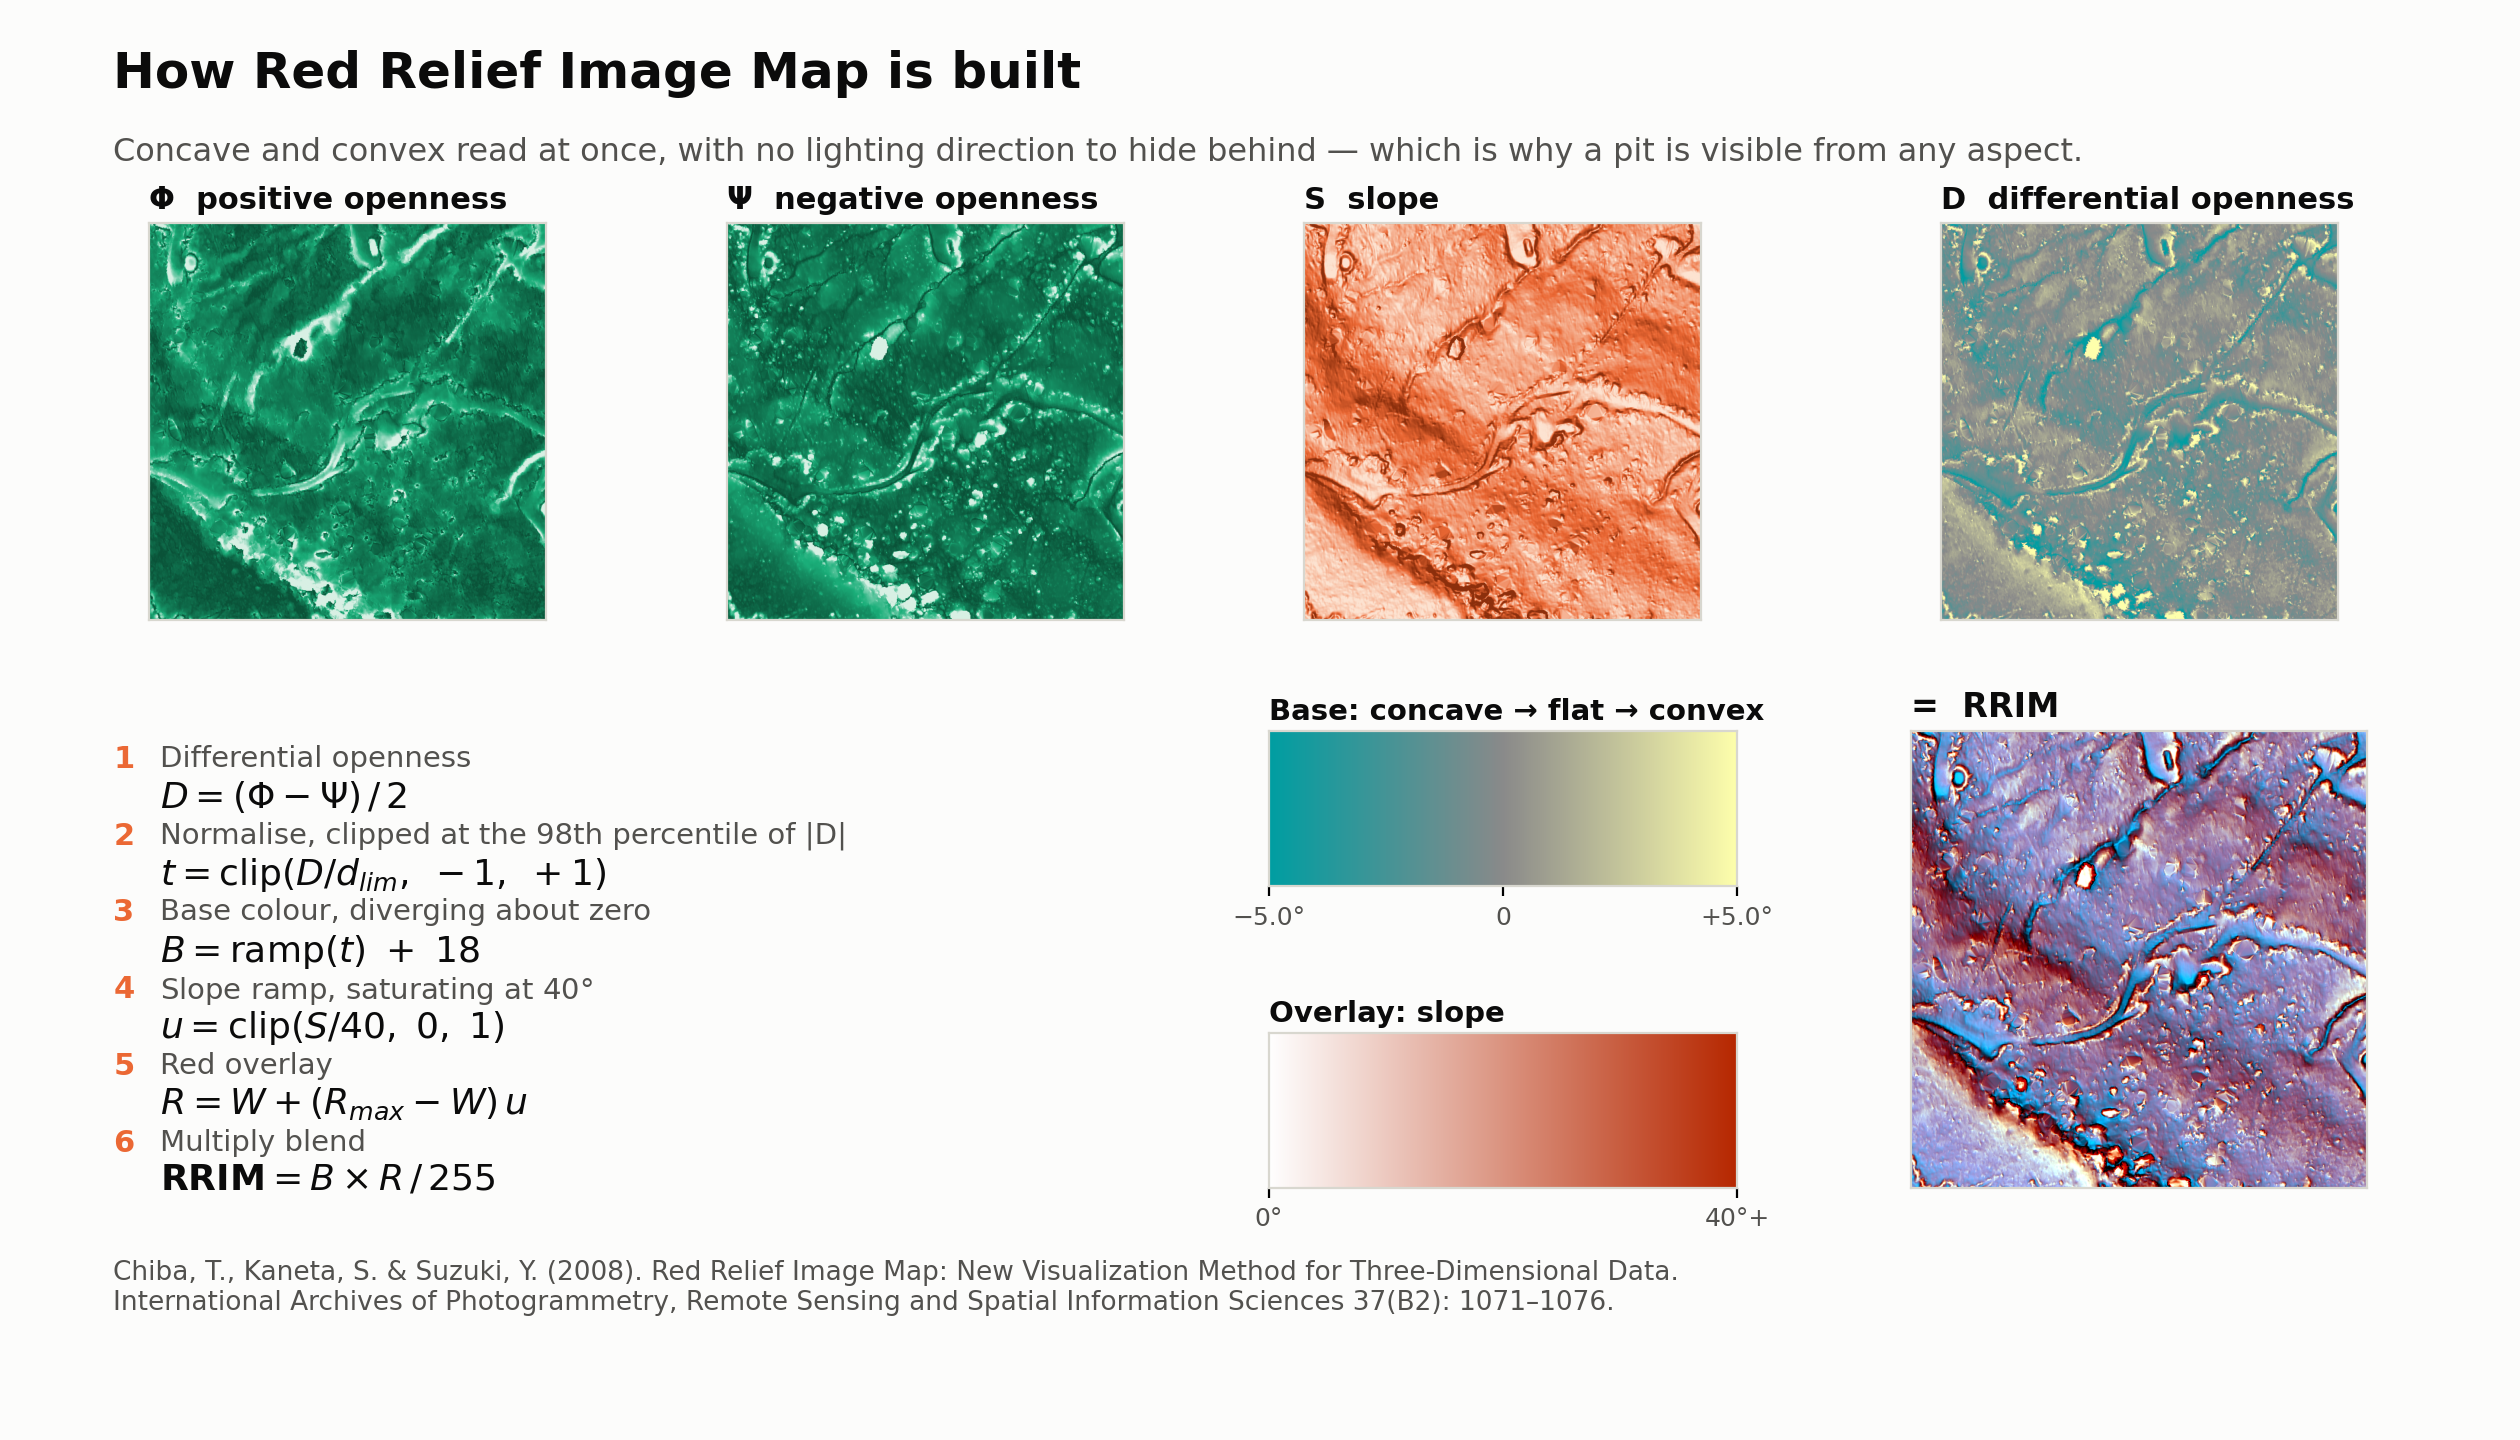
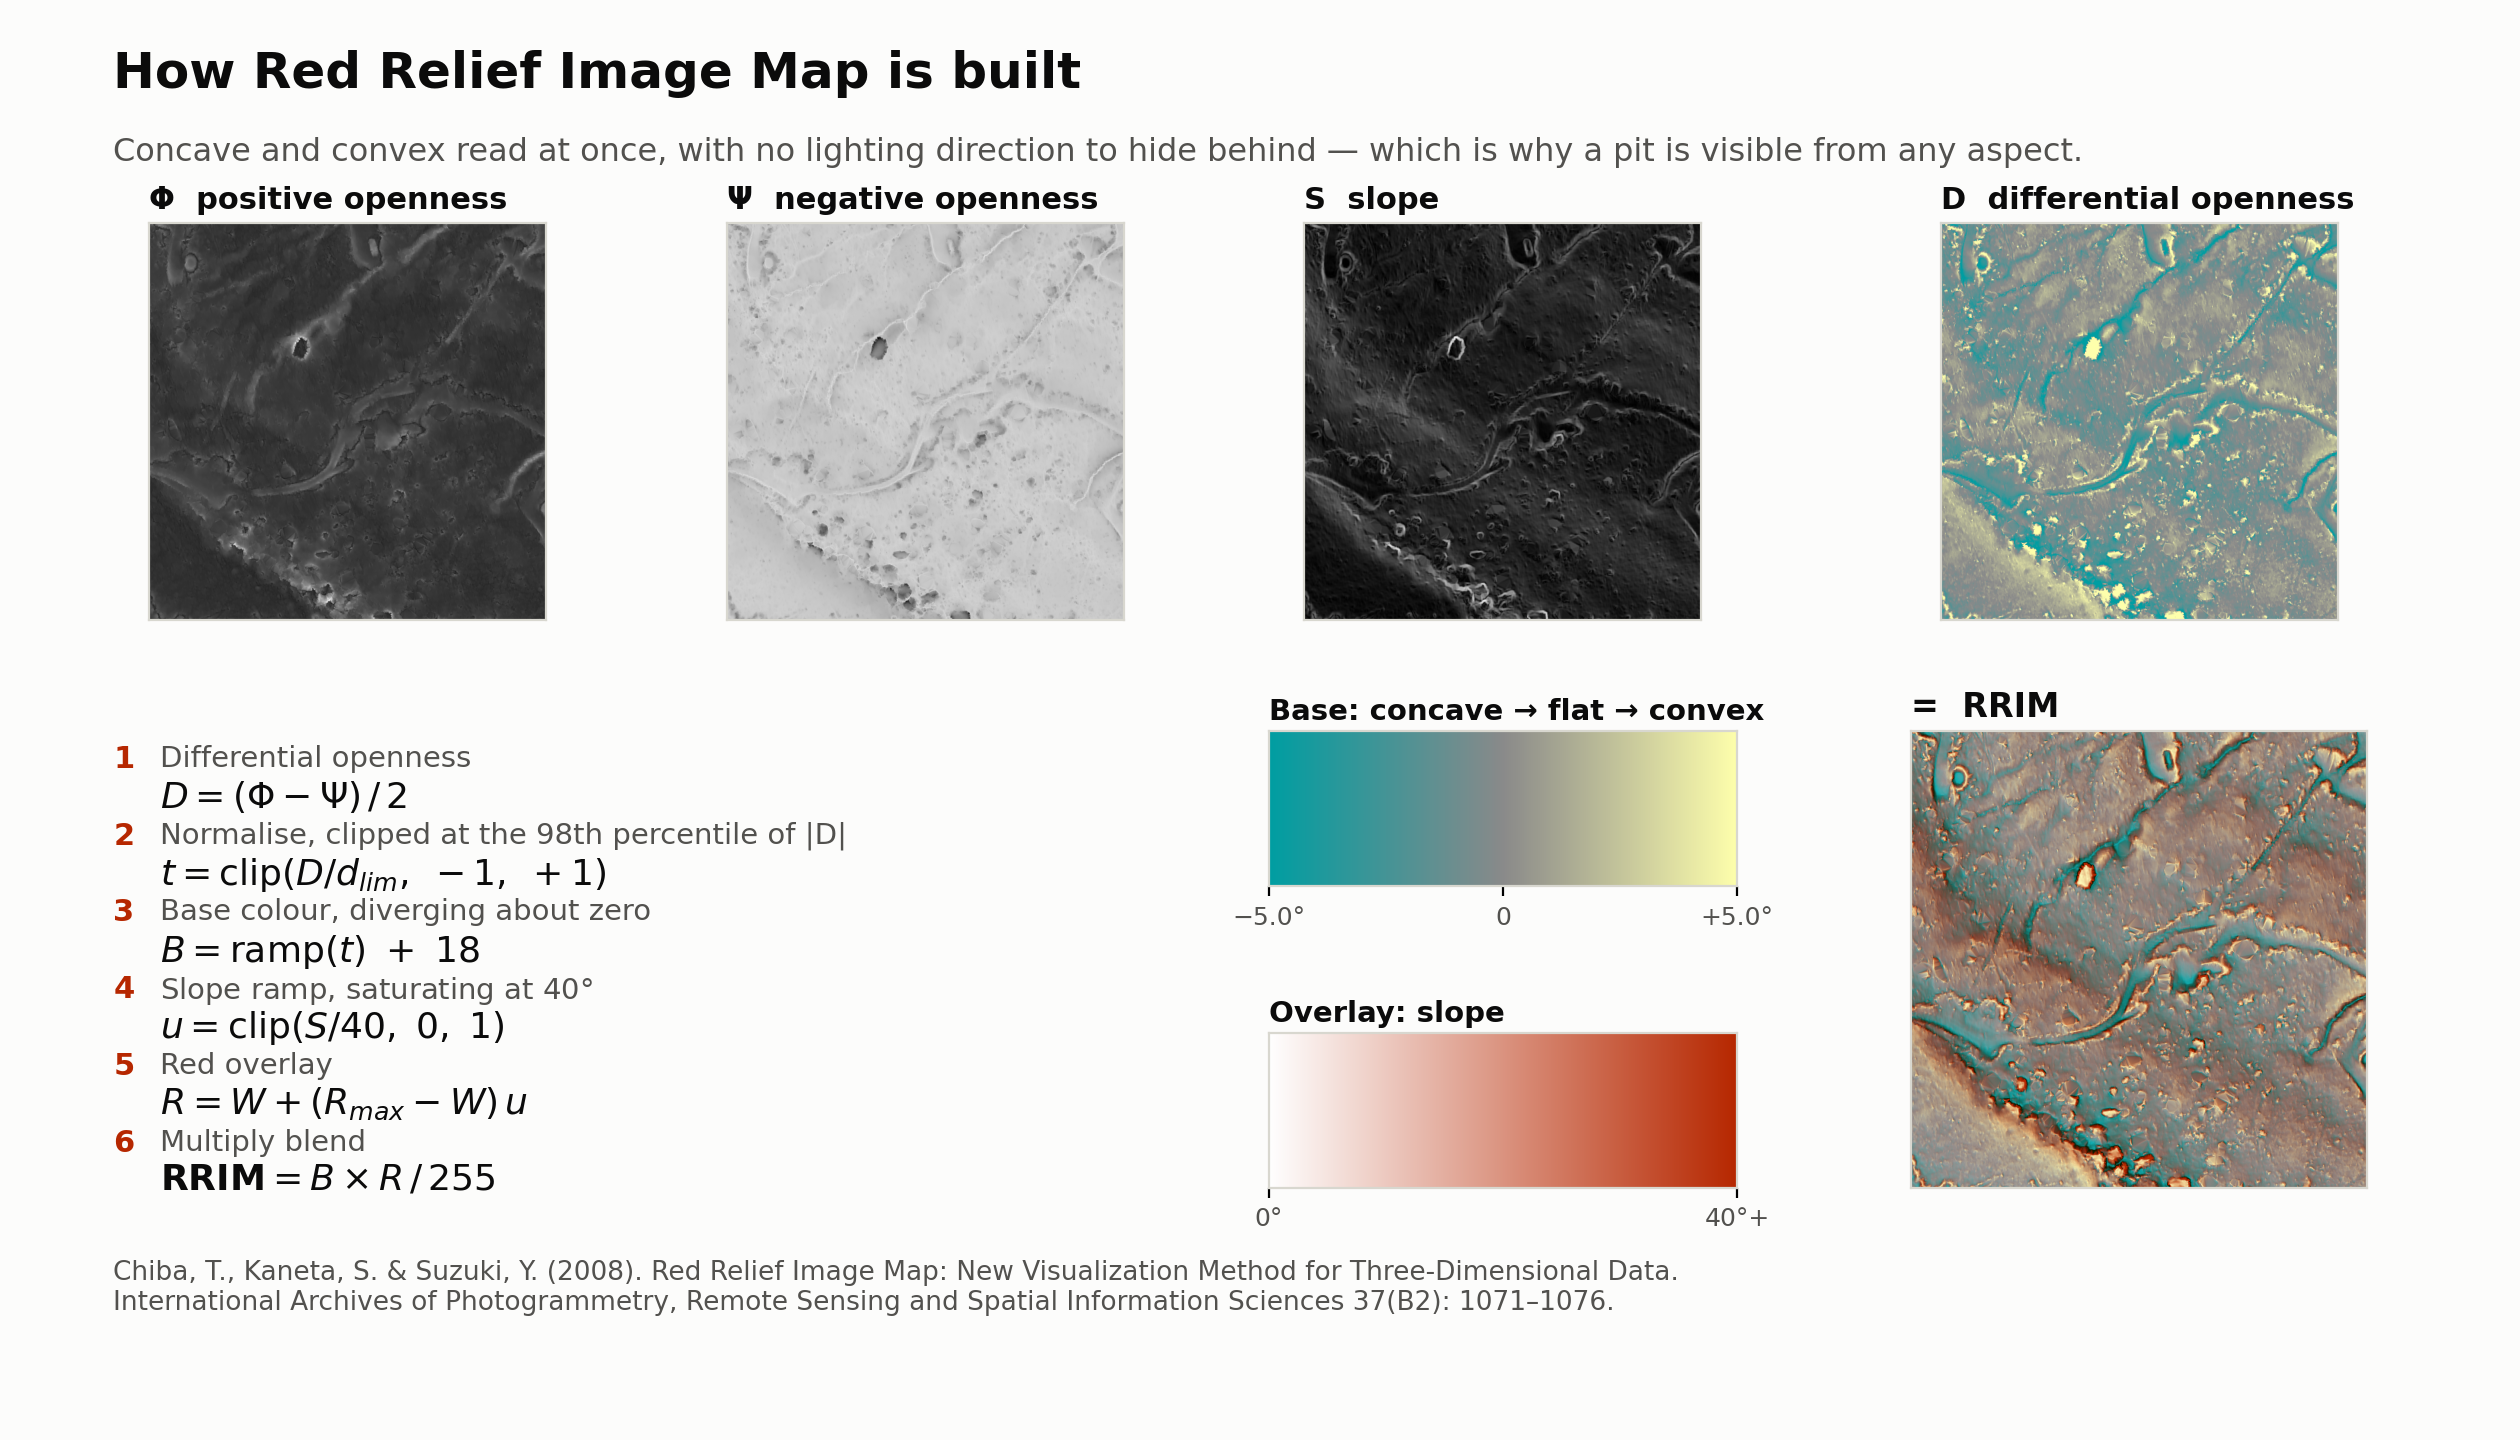
figures: rebuild the RRIM card on the QGIS styling, not invented ramps
The card was the last figure drawing its inputs on colours chosen here:
openness on a green ramp, slope on an orange-red one. That is not what those
layers look like when opened, and a green ramp beside a red ramp carrying a
different meaning is the pair the colourblind rule forbids.

All three inputs are greyscale now, read from qgis/wellsight.qgz through
qgis_styles imported from the panel builder, so the card and the panels cannot
drift apart. The project styles openness_pos WhiteToBlack and the other two
BlackToWhite; the card honours that inversion instead of flattening it.

The RRIM thumbnail was applying its own 2-98 stretch over a layer the project
renders with NoEnhancement. Raw bytes now, so it matches the annotation series
base exactly.

The two ramp swatches keep the real RRIM constants because they ARE the
algorithm. Reasoning for that, and the validator numbers behind it, is in the
module docstring.

Claude-Session: https://claude.ai/code/session_012wuDYDPJQj4QxbtZFmrfaB

diff --git a/docs/presentation/figures_30to45min/_build_rrim_formula_card.py b/docs/presentation/figures_30to45min/_build_rrim_formula_card.py
@@ -5,6 +5,31 @@ not out of the paper, so the card describes what this project actually computes.
 The thumbnails come from the same 300 m Venango window as the annotation series,
 so the card and the maps agree.
 
+THE INPUT THUMBNAILS ARE DRAWN THE WAY QGIS DRAWS THEM
+------------------------------------------------------
+Openness and slope used to be shown here on invented green and orange ramps.
+Two problems with that. They are not what those layers look like when opened,
+which is the same defect `_build_derivative_panel.py` was fixed for; and a
+green ramp beside an orange-red ramp, each carrying a different meaning, is
+precisely the pair the colourblind rule in CLAUDE.md forbids. All three inputs
+are now greyscale, read from `qgis/wellsight.qgz` through that module's
+`qgis_styles`, so this card and the derivative panels agree with the screen and
+with each other.
+
+The RRIM panel is likewise raw bytes now. `rrim_openness_9t_05` is
+multibandcolor with NoEnhancement in the project, and this card was applying a
+2-98 percentile stretch of its own on top.
+
+COLOUR THAT STAYS, AND WHY
+--------------------------
+The two ramp swatches keep the real RRIM constants, because they ARE the
+algorithm -- teal/grey/yellow diverging about zero, white to red for slope.
+The dataviz validator scores teal against grey at dE 4.2 deutan, but it is
+scoring them as a categorical palette and they are not one: they are adjacent
+stops of a diverging ramp, where being close together at the midpoint is the
+ramp working. Neither ramp is read by colour alone -- both carry numeric ticks.
+There is no green anywhere on the card, so there is no red/green pair.
+
 Reference (already in literature/CITATIONS.md, PDFs in literature/papers/):
     Chiba, T., Kaneta, S., Suzuki, Y. (2008). "Red Relief Image Map: New
     Visualization Method for Three-Dimensional Data." Int. Archives of
@@ -17,6 +42,7 @@ Run:
 """
 from __future__ import annotations
 
+import sys
 from pathlib import Path
 
 import matplotlib
@@ -26,6 +52,9 @@ import numpy as np
 import rasterio
 from matplotlib.colors import LinearSegmentedColormap
 from rasterio.windows import from_bounds
+
+sys.path.insert(0, str(Path(__file__).resolve().parent))
+from _build_derivative_panel import qgis_styles, style_for   # noqa: E402
 
 ROOT = Path(r"C:\Users\colto\Documents\GitHub\lidar_project")
 D05 = ROOT / "data" / "9t" / "derived" / "05"
@@ -40,6 +69,9 @@ INK = "#0b0b0b"
 INK2 = "#52514e"
 MUTED = "#8a887e"
 RULE = "#d8d7cf"
+#: The step numbers take the card's own subject colour, RRIM's slope red,
+#: rather than the orange of the invented ramp that used to sit above them.
+ACCENT = "#b62700"
 
 # The exact constants from _make_rrim.py -- if that file changes, change these.
 TEAL = np.array([0, 158, 162], float)
@@ -70,13 +102,18 @@ def read(name, bb):
     return a[0] if a.ndim == 3 else a
 
 
-def thumb(ax, arr, title, cmap, sym=False):
-    v = arr[np.isfinite(arr)]
-    if sym:
-        m = np.percentile(np.abs(v), 98)
-        vmin, vmax = -m, m
+def thumb(ax, arr, title, cmap=None, sym=False, st=None):
+    """One input, either QGIS-styled greyscale (st) or an explicit ramp."""
+    if st is not None:
+        cmap = "gray" if st["gradient"] == "BlackToWhite" else "gray_r"
+        vmin, vmax = st["vmin"], st["vmax"]
     else:
-        vmin, vmax = np.percentile(v, 2), np.percentile(v, 98)
+        v = arr[np.isfinite(arr)]
+        if sym:
+            m = np.percentile(np.abs(v), 98)
+            vmin, vmax = -m, m
+        else:
+            vmin, vmax = np.percentile(v, 2), np.percentile(v, 98)
     ax.imshow(arr, cmap=cmap, vmin=vmin, vmax=vmax)
     ax.set_xticks([]); ax.set_yticks([])
     for sp in ax.spines.values():
@@ -110,10 +147,8 @@ def main() -> int:
     with rasterio.open(D05 / "rrim_openness_9t_05.tif") as r:
         w = from_bounds(*bb, transform=r.transform)
         rr = r.read(window=w, boundless=True, fill_value=np.nan).astype("float32")[:3]
-    rr = np.stack([(b - np.nanpercentile(b, 2))
-                   / max(np.nanpercentile(b, 98) - np.nanpercentile(b, 2), 1e-9)
-                   for b in rr])
-    rrim = np.clip(np.moveaxis(rr, 0, -1), 0, 1)
+    # NoEnhancement in the QGIS project: the stored bytes go straight to screen.
+    rrim = np.clip(np.moveaxis(rr / 255.0, 0, -1), 0, 1)
 
     plt.rcParams.update({
         "figure.facecolor": SURFACE, "axes.facecolor": SURFACE,
@@ -126,14 +161,23 @@ def main() -> int:
                           hspace=0.26, wspace=0.22,
                           left=0.045, right=0.965, top=0.845, bottom=0.175)
 
-    CM_G = LinearSegmentedColormap.from_list("g", ["#d8f0e4", "#1baf7a", "#0a5238"])
-    CM_O = LinearSegmentedColormap.from_list("o", ["#fde3d1", "#eb6834", "#8c2f0c"])
     CM_D = LinearSegmentedColormap.from_list(
         "d", [TEAL / 255, GRAY / 255, YELLOW / 255])
 
-    thumb(fig.add_subplot(gs[0, 0]), op, "\u03a6  positive openness", CM_G)
-    thumb(fig.add_subplot(gs[0, 1]), on, "\u03a8  negative openness", CM_G)
-    thumb(fig.add_subplot(gs[0, 2]), slope, "S  slope", CM_O)
+    # The three real rasters are drawn the way the QGIS project draws them.
+    # D is an intermediate that exists only inside _make_rrim.py, so it has no
+    # project style; it wears the base ramp it feeds, which is the point of it.
+    styles = qgis_styles()
+    for ax_, arr, stem, title in (
+            (fig.add_subplot(gs[0, 0]), op, "openness_pos_9t_05",
+             "\u03a6  positive openness"),
+            (fig.add_subplot(gs[0, 1]), on, "openness_neg_9t_05",
+             "\u03a8  negative openness"),
+            (fig.add_subplot(gs[0, 2]), slope, "slope_9t_05", "S  slope")):
+        st = style_for(stem, styles, D05 / f"{stem}.tif")
+        print(f"  {stem:22s} gray {st['gradient']} "
+              f"{st['vmin']:.4g} to {st['vmax']:.4g}  ({st['source']})")
+        thumb(ax_, arr, title, st=st)
     thumb(fig.add_subplot(gs[0, 3]), do, "D  differential openness", CM_D, sym=True)
 
     # --- the maths, as it is actually coded -----------------------------------
@@ -152,7 +196,7 @@ def main() -> int:
     ]
     y = 0.97
     for num, words, formula in lines:
-        ax.text(0.0, y, num, fontsize=11, fontweight="bold", color="#eb6834",
+        ax.text(0.0, y, num, fontsize=11, fontweight="bold", color=ACCENT,
                 va="top")
         ax.text(0.045, y, words, fontsize=10.5, color=INK2, va="top")
         ax.text(0.045, y - 0.075, formula, fontsize=13, color=INK, va="top")

diff --git a/docs/analysis_log.md b/docs/analysis_log.md
@@ -5,6 +5,35 @@ result. Newest entries at the top. Per `Claude.md` reporting rule.
 
 ---
 
+## 2026-09-19 — RRIM formula card rebuilt on the QGIS styling
+
+The card explaining how RRIM is built was the last figure still drawing its
+inputs on invented ramps: positive and negative openness on a green ramp, slope
+on an orange-red one. Two defects in one. It is not what those layers look like
+when opened, which is what `_build_derivative_panel.py` was fixed for the same
+day; and a green ramp beside a red ramp, each meaning something different, is
+the exact pair the colourblind rule forbids.
+
+All three inputs are now greyscale, read from `qgis/wellsight.qgz` via
+`qgis_styles` imported from the panel builder, so the card and the panels
+cannot drift apart. The project styles `openness_pos` WhiteToBlack and the
+other two BlackToWhite, and the card now honours that inversion instead of
+flattening it. The RRIM thumbnail was also applying a 2-98 percentile stretch
+of its own over a layer the project renders with NoEnhancement; it is raw bytes
+now, so it matches the annotation series base exactly.
+
+The two ramp swatches keep the real RRIM constants, because they are the
+algorithm. The dataviz validator scores teal against grey at dE 4.2 deutan,
+but it is scoring them as a categorical palette and they are not one -- they
+are adjacent stops of a diverging ramp, where sitting close together at the
+midpoint is the ramp working. Both ramps carry numeric ticks, so neither is
+read by colour alone, and with the green gone there is no red/green pair left
+on the card.
+
+`docs/presentation/figures_30to45min/2_terrain_derivatives/rrim_formula_card.png`
+
+---
+
 ## 2026-09-19 — Every talk figure renamed and every stage folder flattened
 
 **Why.** The figure names had grown to carry everything: the site as a lat/lon
